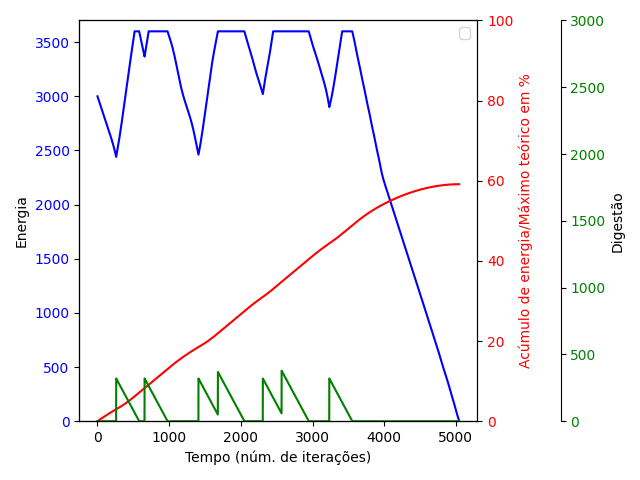
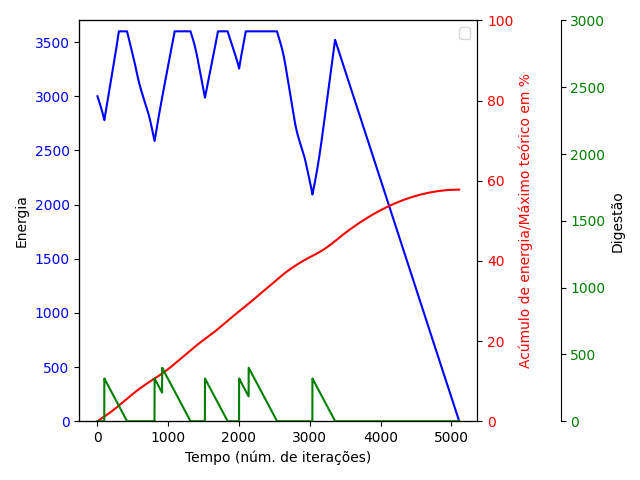
Add files via upload

diff --git a/evolve_predator.py b/evolve_predator.py
@@ -44,7 +44,7 @@ print(pred_poses)
 print(positions)
 
 # Número de gerações
-N_GEN = 50
+N_GEN = 200
 
 """
 Dado uma lista de floats, que é que o deap acha que é o indivíduo, utilizamos a função evaluate
@@ -136,7 +136,7 @@ toolbox.register('population', tools.initRepeat, list, toolbox.individual)
 # duas floats "filhas" de outras duas listas de floats. Ele funciona percorrendo as listas
 # e pra cada posição, troca os elementos correspondentes a mesma posição de cada uma das listas
 # originais com probabilidade indpb, especificada abaixo
-toolbox.register('mate', tools.cxUniform, indpb=0.7)
+toolbox.register('mate', tools.cxUniform, indpb=0.5)
 
 # A função toolbox.mutate é responsável pela mutação de indivíduos. Foi utilizado
 # o algoritmo de mutação para floats "tools.mutGaussian". Será definido mais abaixo
@@ -144,7 +144,7 @@ toolbox.register('mate', tools.cxUniform, indpb=0.7)
 # Para cada atributo, existe uma probabilidade indpb de acontecer uma mutação nele
 # Quando essa mutação ocorre, o valor se transforma conforme cuja distribuição de valores é centrada em 'mu'
 # e possui desvio padrão 'sigma'
-toolbox.register('mutate', tools.mutGaussian, indpb=0.7, mu=0, sigma=0.7) # ver se funciona pra real
+toolbox.register('mutate', tools.mutGaussian, indpb=0.1, mu=0, sigma=0.7) # ver se funciona pra real
 
 # A função toolbox.select é responsável por selecionar os indivíduos para a próxima geração
 # Em particular, tools.selTournament funciona assim:
@@ -181,7 +181,14 @@ toolbox.decorate('mate', history.decorator)
 toolbox.decorate('mutate', history.decorator)
 
 # Cria uma população inicial de 20 indivíduos
-pop = toolbox.population(n=20)
+start_from_last_generation = 'last_generation2022-12-05 003817.201521.pkl'
+
+if start_from_last_generation == '':
+    pop = toolbox.population(n=40)
+else:
+    with open(start_from_last_generation, 'rb') as last_generation_file:
+        pop = pickle.load(last_generation_file)
+
 history.update(pop)
 
 # Cria um hall of fame
@@ -192,7 +199,7 @@ hof = tools.HallOfFame(1)
 # cxpb = probabilidade de cruzar 2 indivíduos
 # mutpb = probabilidade de um indivíduo mutar
 
-pop, log = algorithms.eaSimple(pop, toolbox, cxpb=0.9, mutpb=0.1, ngen=N_GEN, stats=stats, halloffame=hof)
+pop, log = algorithms.eaSimple(pop, toolbox, cxpb=0.9, mutpb=0.3, ngen=N_GEN, stats=stats, halloffame=hof)
 
 # Ordena a população da última geração pela fitness
 pops = sorted(pop, key=lambda ind: ind.fitness, reverse=True)

diff --git a/config.py b/config.py
@@ -39,7 +39,7 @@ DRAW_DIRECTION=True
 # Acceleration decrease/increase // change in turning angle
 ACCELERATION_INCREASE = ACCELERATION_LIMIT * 0.2
 ACCELERATION_DECREASE = ACCELERATION_INCREASE
-ANGLE_INCREASE = 0.03 # --> abrupt x pi change in acceleration angle
+ANGLE_INCREASE = 0.012 # --> abrupt x pi change in acceleration angle
 
 
 # Prey Configuration
@@ -118,6 +118,6 @@ PREY_LAYERS_LIST = [2*PREY_NEURONS+6, 5, 2]
 PREY_CAN_CROSS_WALLS = False
 
 # PREDATOR TRAINING
-PREDATOR_LAYERS_LIST = [3+3+5, 2]
+PREDATOR_LAYERS_LIST = [3+3+5, 3, 2]
 PREDATOR_ACC_LAYER_LIST = []
 PRED_CAN_CROSS_WALLS = False
